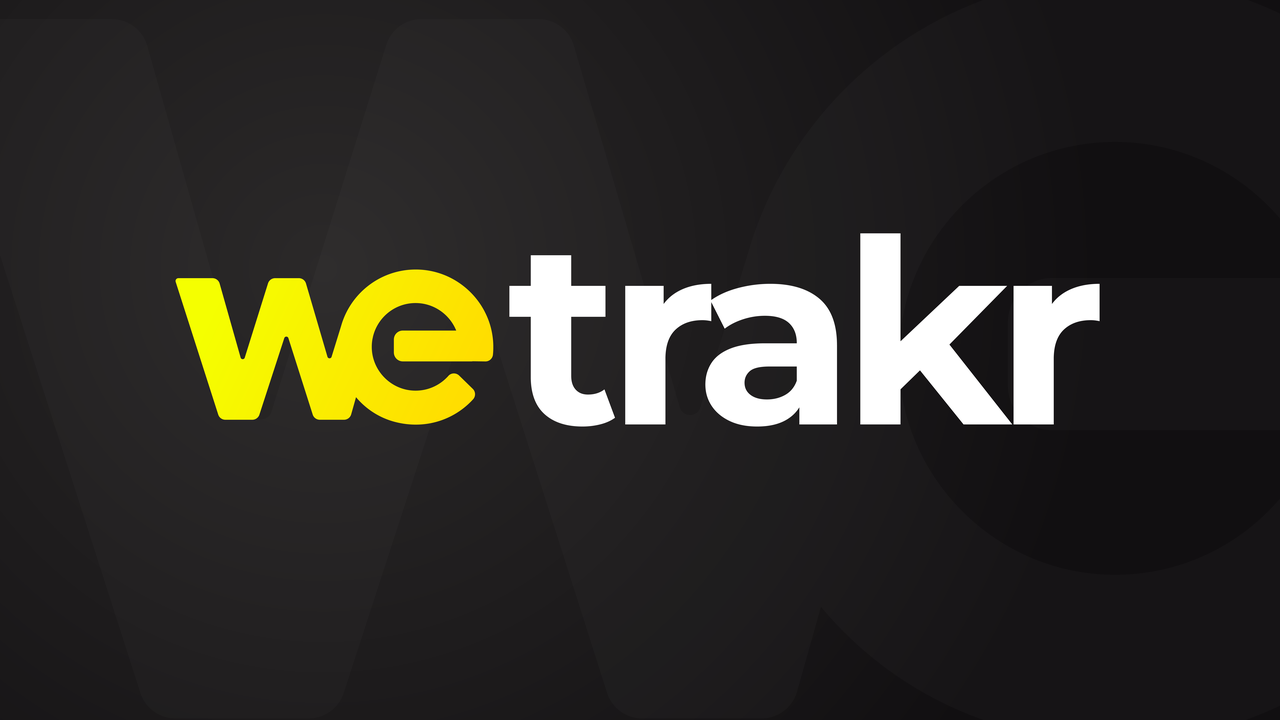
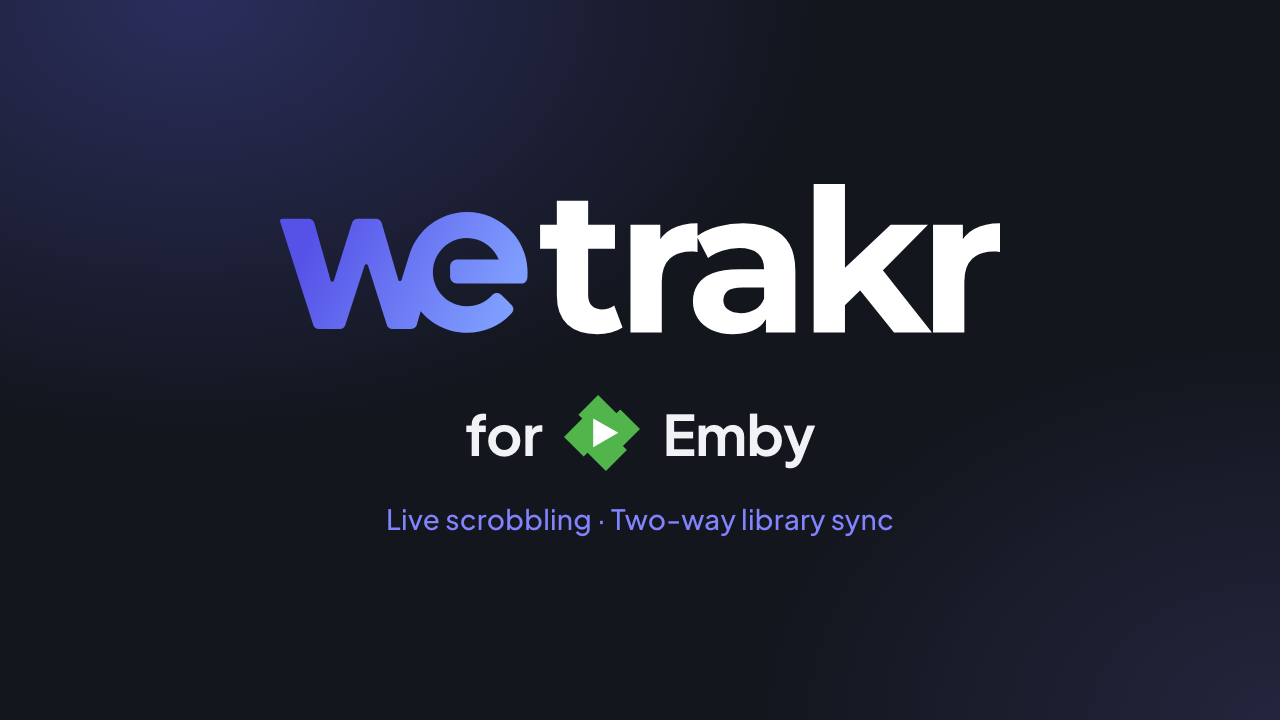
0.4.2: new plugin image, several servers per account
- Plugin thumbnail with the current WeTrakr logo
- The invalid-link warning now says the server was unlinked in WeTrakr Settings > Emby
- README: one WeTrakr account can be linked from several Emby servers

diff --git a/Emby.Plugin.WeTrakr/Configuration/configPage.js b/Emby.Plugin.WeTrakr/Configuration/configPage.js
@@ -35,7 +35,7 @@ define(['loading', 'emby-input', 'emby-button', 'emby-checkbox'], function (load
                 if (u.Linked && !u.Invalid) {
                     lines.push('<div class="wt-ok">Linked to WeTrakr as <b>' + esc(u.WeTrakrUsername || '?') + '</b></div>');
                 } else if (u.Invalid) {
-                    lines.push('<div class="wt-warn">WeTrakr no longer accepts this link (it was linked again elsewhere or disconnected). Link it again.</div>');
+                    lines.push('<div class="wt-warn">WeTrakr no longer accepts this link (this server was unlinked in WeTrakr Settings &gt; Emby). Link it again.</div>');
                 } else {
                     lines.push('<div class="wt-muted">Not linked</div>');
                 }

diff --git a/Emby.Plugin.WeTrakr/Configuration/userPage.js b/Emby.Plugin.WeTrakr/Configuration/userPage.js
@@ -34,7 +34,7 @@ define(['loading', 'emby-button'], function (loading) {
             if (u.Linked && !u.Invalid) {
                 lines.push('<div class="wt-ok">Linked to WeTrakr as <b>' + esc(u.WeTrakrUsername || '?') + '</b></div>');
             } else if (u.Invalid) {
-                lines.push('<div class="wt-warn">WeTrakr no longer accepts this link (it was linked again elsewhere or disconnected). Link it again.</div>');
+                lines.push('<div class="wt-warn">WeTrakr no longer accepts this link (this server was unlinked in WeTrakr Settings &gt; Emby). Link it again.</div>');
             } else {
                 lines.push('<div class="wt-muted">Not linked</div>');
             }

diff --git a/README.md b/README.md
@@ -42,6 +42,8 @@ Any user, from their own account:
 
 The first sync starts right away. What goes each way is set in WeTrakr: **Settings → Emby**.
 
+One WeTrakr account can be linked from several Emby servers (stable and beta, home and away...): link it on each server the same way. **Settings → Emby** in WeTrakr lists every linked server and lets you unlink one without touching the others.
+
 The administrator can also link any user from **Dashboard → Plugins → WeTrakr**, which is where the server-wide options live (scrobbling, sync directions, ignored libraries).
 
 ## Options
